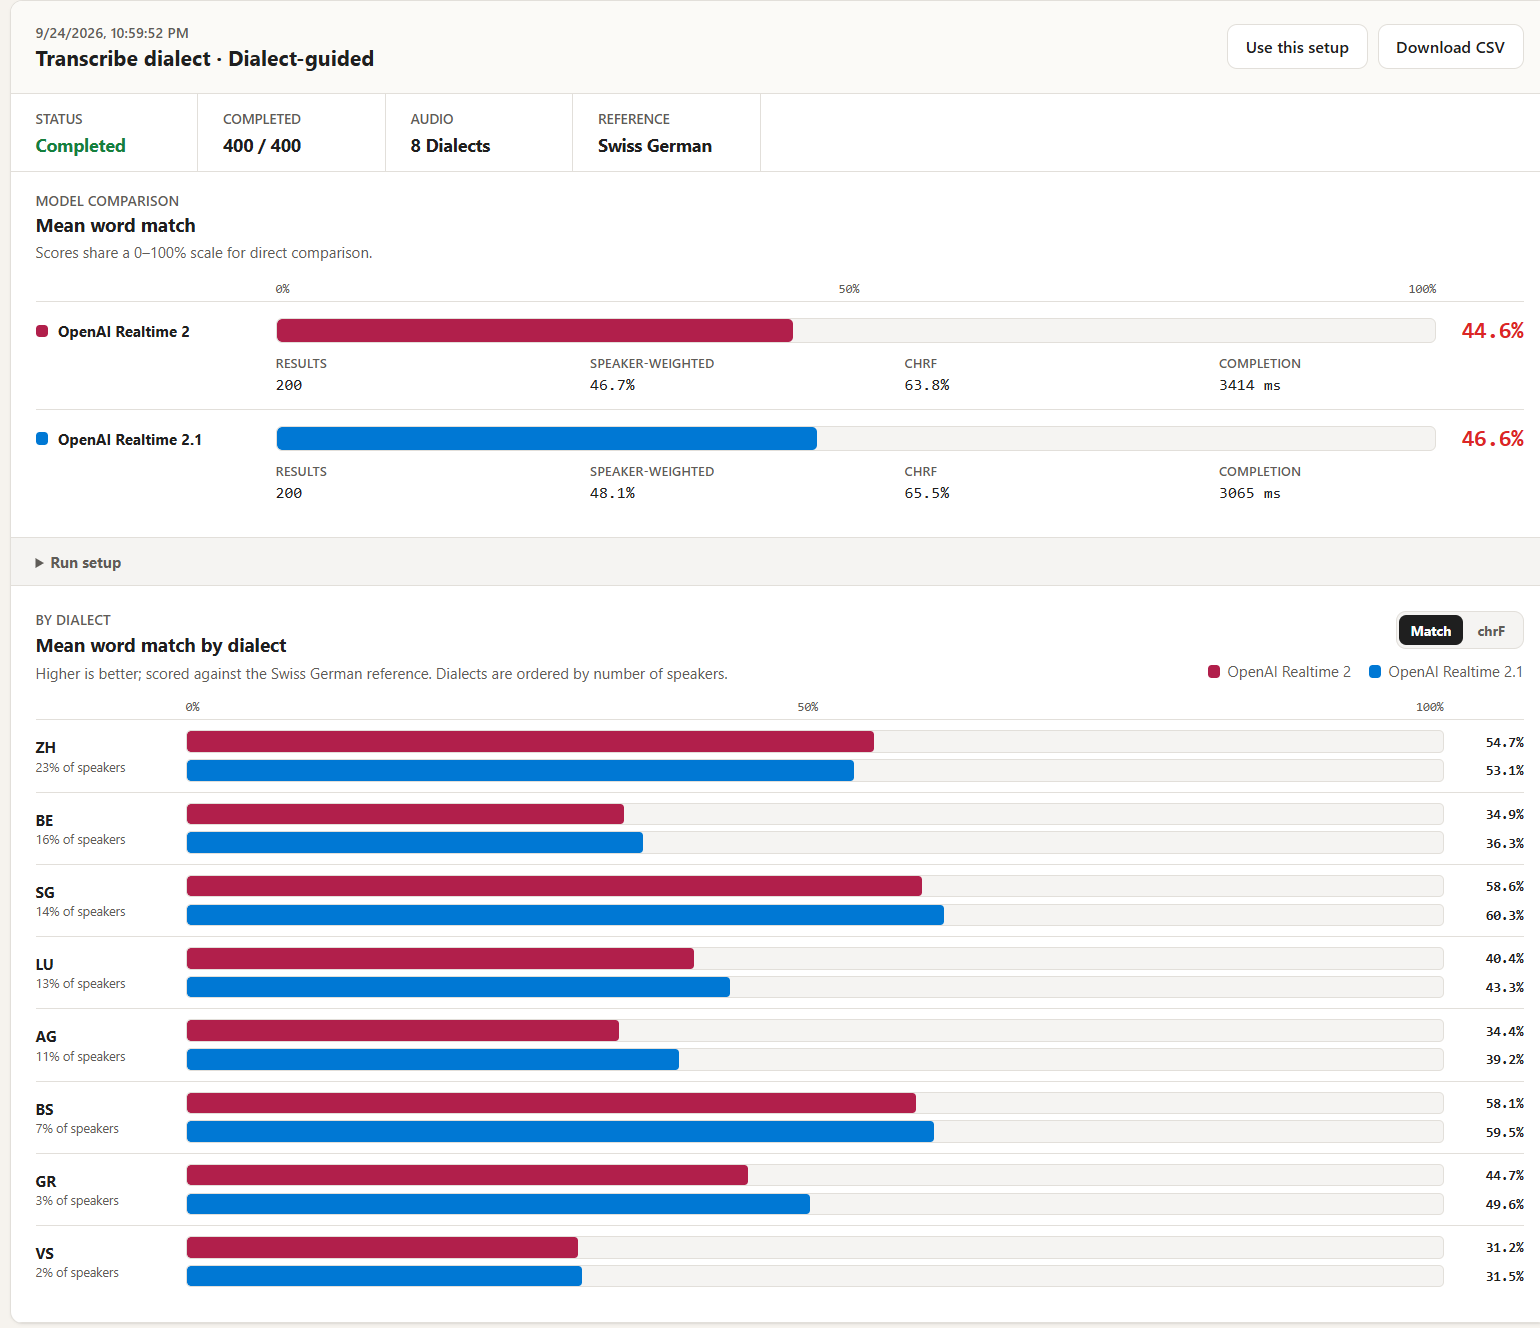
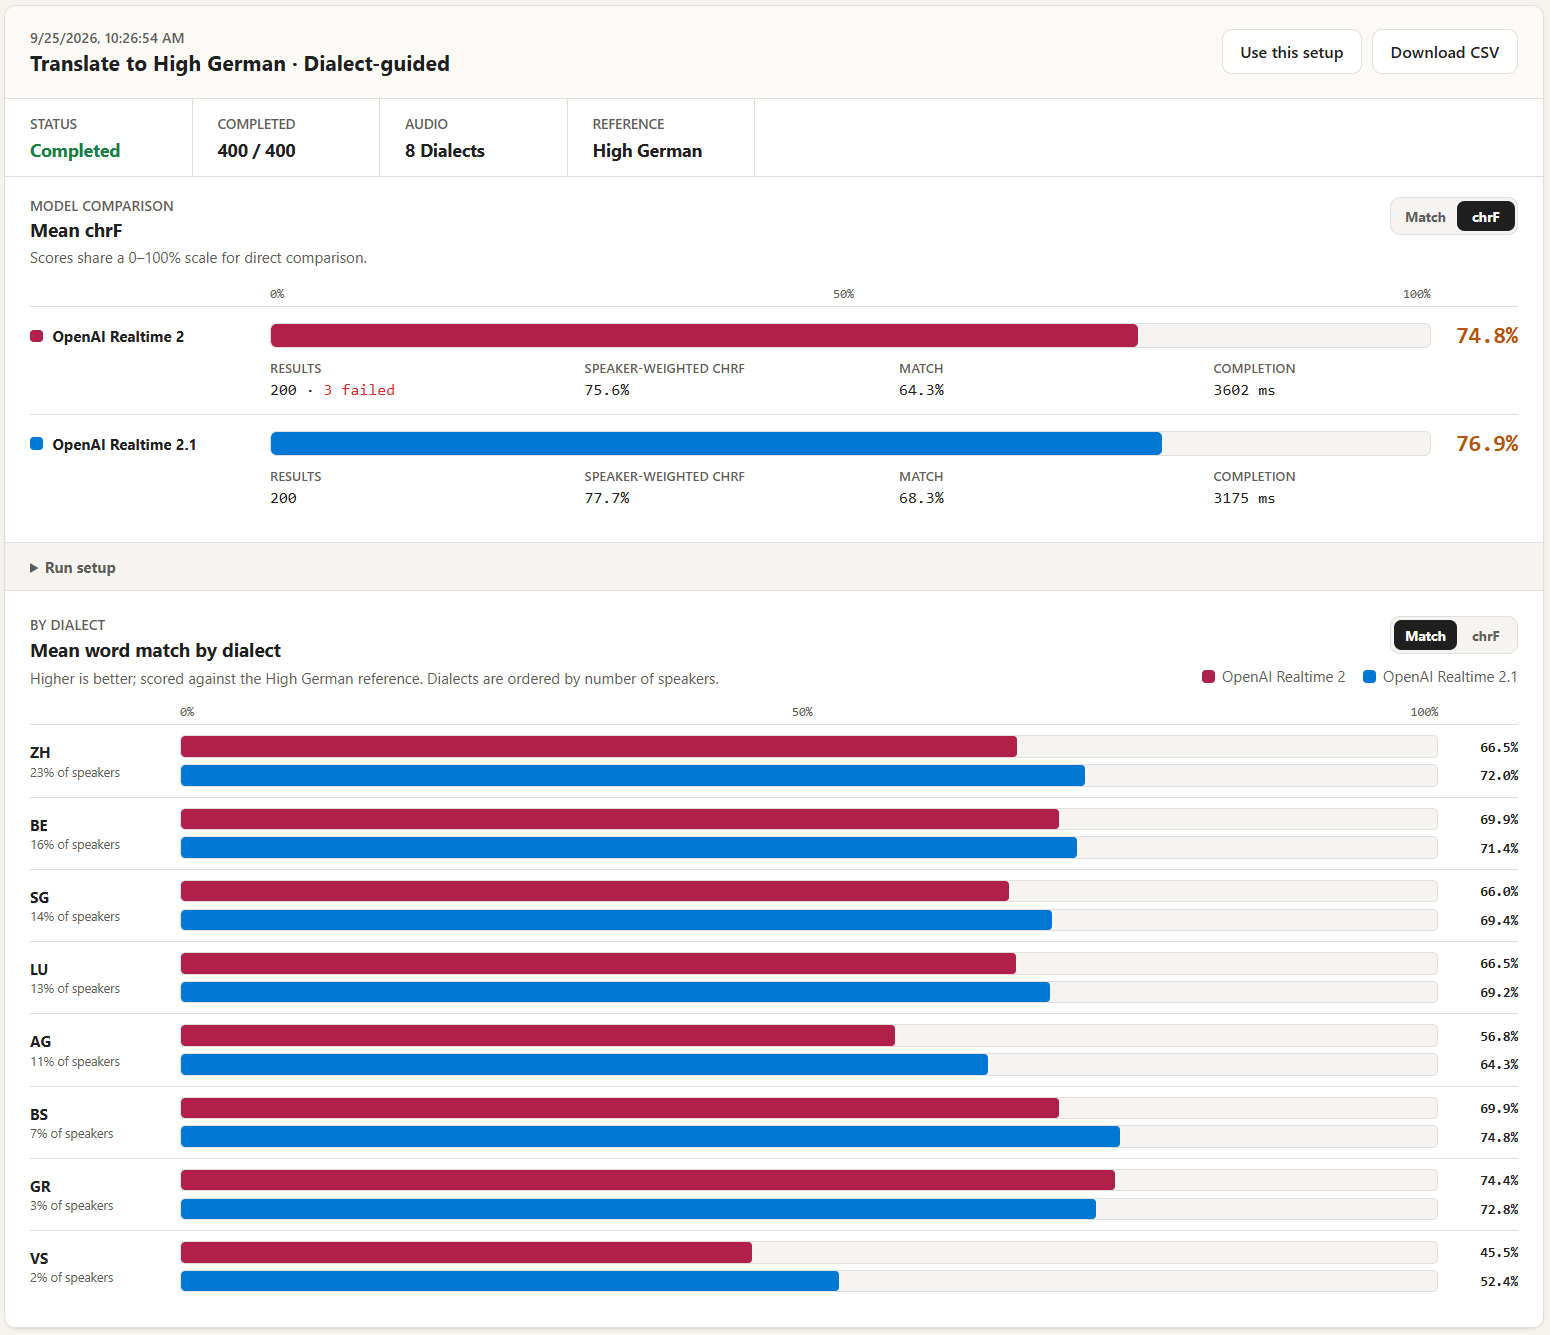
updates

diff --git a/frontend/minimal-app.js b/frontend/minimal-app.js
@@ -32,6 +32,7 @@ const state = {
   search: '',
   selectedMetrics: ['validation', 'match', 'chrf'],
   chartMetric: 'match',
+  summaryMetric: 'match',
   sampleSize: 16,
   sampleRound: 0,
   itemLimit: utterancePageSize,
@@ -727,30 +728,38 @@ function weightedModelScore(run, modelId, property) {
 }
 
 function modelScorecards(run) {
+  const metric = state.summaryMetric === 'chrf' ? 'chrf' : 'match'
+  const otherMetric = metric === 'match' ? 'chrf' : 'match'
+  const title = metric === 'match' ? 'Mean word match' : 'Mean chrF'
+  const spokenMetric = metric === 'match' ? 'mean word match' : 'mean chrF'
   const cards = run.model_ids.map((modelId, index) => {
     const results = (run.results ?? []).filter((result) => result.model_id === modelId)
     const failed = results.filter((result) => result.status === 'failed').length
-    const match = modelScore(run, modelId, 'word_match_rate')
-    const weighted = weightedModelScore(run, modelId, 'word_match_rate')
-    const chrf = modelScore(run, modelId, 'chrf')
+    const score = modelScore(run, modelId, metricProperties[metric])
+    const weighted = weightedModelScore(run, modelId, metricProperties[metric])
+    const otherScore = modelScore(run, modelId, metricProperties[otherMetric])
     const completion = modelScore(run, modelId, 'latency_ms')
-    const width = match === null ? 0 : Math.max(0, Math.min(100, match * 100))
+    const width = score === null ? 0 : Math.max(0, Math.min(100, score * 100))
     return `<article class="scorecard">
       <div class="scorecard-main">
         <strong class="scorecard-name"><i class="score-swatch series-${index % 4}"></i>${escapeHtml(modelLabel(modelId))}</strong>
-        <span class="score-track ${match === null ? 'pending' : ''}" role="img" aria-label="${escapeHtml(`${modelLabel(modelId)}: ${match === null ? 'no word match score yet' : `${rate(match)} mean word match`}`)}"><i class="score-fill series-${index % 4}" style="width:${width}%"></i></span>
-        <strong class="score-value tone-${scoreTone(match)}">${rate(match)}</strong>
+        <span class="score-track ${score === null ? 'pending' : ''}" role="img" aria-label="${escapeHtml(`${modelLabel(modelId)}: ${score === null ? `no ${spokenMetric} score yet` : `${rate(score)} ${spokenMetric}`}`)}"><i class="score-fill series-${index % 4}" style="width:${width}%"></i></span>
+        <strong class="score-value tone-${scoreTone(score)}">${rate(score)}</strong>
       </div>
       <dl>
         <div><dt>Results</dt><dd>${results.length}${failed ? ` · <span class="text-danger">${failed} failed</span>` : ''}</dd></div>
-        <div><dt title="Mean of per-dialect match weighted by each dialect region's share of Swiss German speakers">Speaker-weighted</dt><dd>${rate(weighted)}</dd></div>
-        <div><dt>chrF</dt><dd>${rate(chrf)}</dd></div>
+        <div><dt title="Mean of per-dialect ${escapeHtml(metricDefinitions[metric].label)} weighted by each dialect region's share of Swiss German speakers">Speaker-weighted ${escapeHtml(metricDefinitions[metric].label)}</dt><dd>${rate(weighted)}</dd></div>
+        <div><dt>${escapeHtml(metricDefinitions[otherMetric].label)}</dt><dd>${rate(otherScore)}</dd></div>
         <div><dt>Completion</dt><dd>${latency(completion)}</dd></div>
       </dl>
     </article>`
   }).join('')
   return `<section class="scorecards" aria-label="Model comparison">
-    <div class="scorecards-heading"><span class="eyebrow">${run.model_ids.length > 1 ? 'Model comparison' : 'Model results'}</span><h3>Mean word match</h3><p>Scores share a 0–100% scale for direct comparison.</p></div>
+    <div class="scorecards-heading"><div><span class="eyebrow">${run.model_ids.length > 1 ? 'Model comparison' : 'Model results'}</span><h3>${title}</h3><p>Scores share a 0–100% scale for direct comparison.</p></div>
+      <div class="chart-metric-switch" role="group" aria-label="Model comparison metric">
+        ${['match', 'chrf'].map((key) => `<button type="button" data-summary-metric="${key}" aria-pressed="${metric === key}" class="${metric === key ? 'active' : ''}">${escapeHtml(metricDefinitions[key].label)}</button>`).join('')}
+      </div>
+    </div>
     <div class="score-axis" aria-hidden="true"><span>0%</span><span>50%</span><span>100%</span></div>
     ${cards}
   </section>`
@@ -1430,7 +1439,7 @@ async function toggleResultAudio(button) {
 }
 
 app.addEventListener('click', (event) => {
-  const button = event.target.closest('[data-action], [data-run-id], [data-metric-info], [data-chart-metric], [data-view], [data-task-mode], [data-dialect-chip], [data-benchmark-dialect], [data-sample-preset]')
+  const button = event.target.closest('[data-action], [data-run-id], [data-metric-info], [data-chart-metric], [data-summary-metric], [data-view], [data-task-mode], [data-dialect-chip], [data-benchmark-dialect], [data-sample-preset]')
   if (!button || button.disabled) return
   if (button.dataset.view) setView(button.dataset.view)
   if (button.dataset.runId) void openRun(button.dataset.runId)
@@ -1446,6 +1455,10 @@ app.addEventListener('click', (event) => {
   }
   if (button.dataset.chartMetric) {
     state.chartMetric = button.dataset.chartMetric
+    render()
+  }
+  if (button.dataset.summaryMetric) {
+    state.summaryMetric = button.dataset.summaryMetric
     render()
   }
   if (button.dataset.metricInfo) {

diff --git a/frontend/minimal.css b/frontend/minimal.css
@@ -1218,6 +1218,13 @@ textarea:focus {
   border-bottom: 1px solid var(--cp-border);
 }
 
+.scorecards-heading {
+  display: flex;
+  align-items: flex-start;
+  justify-content: space-between;
+  gap: 16px;
+}
+
 .scorecards-heading h3 {
   margin: 3px 0 4px;
   font-size: 15px;
@@ -2230,6 +2237,16 @@ details.result-error > span {
 
   .chart-heading-actions {
     justify-items: start;
+  }
+
+  .scorecards-heading {
+    flex-direction: column;
+    gap: 8px;
+    margin-bottom: 12px;
+  }
+
+  .scorecards-heading p {
+    margin-bottom: 0;
   }
 
   .scorecard-main {

diff --git a/frontend/index.html b/frontend/index.html
@@ -15,11 +15,11 @@
         document.documentElement.setAttribute("data-theme", theme);
       })();
     </script>
-    <link rel="stylesheet" href="/minimal.css?v=13" />
+    <link rel="stylesheet" href="/minimal.css?v=14" />
     <title>Swiss German Speech Lab</title>
   </head>
   <body>
     <main id="app" aria-live="polite">Loading Swiss German transcription benchmark...</main>
-    <script src="/minimal-app.js?v=21" defer></script>
+    <script src="/minimal-app.js?v=22" defer></script>
   </body>
 </html>

diff --git a/README.md b/README.md
@@ -253,7 +253,7 @@ The UI also exposes **Word Match**, calculated as $\max(0, 1 - \text{WER})$. It 
 
 **chrF** is the character n-gram F-score (orders 1–6, $\beta = 2$) over normalized text with spaces removed. It gives partial credit for inflection and spelling variants ("spezielle" vs. "besondere" still shares characters with its context), so it is a better fit for translations than WER. It is computed on the fly from stored transcripts, so it is also available for older runs.
 
-On the **Results** tab, models are compared with horizontal bars on the same 0–100% mean word match scale. Each model also shows its result count, a **speaker-weighted** match (per-dialect means weighted by each dialect region's share of Swiss German speakers; see below), chrF, and completion time. In the results table, words in the model output that are not in the reference are highlighted, and reference words the model missed are shown struck through. Filter the table by dialect or model, and sort by lowest or highest match to find failure patterns quickly. Two-pass runs also show the intermediate dialect transcript.
+On the **Results** tab, models are compared with horizontal bars on the same 0–100% scale. Switch the upper comparison independently between **Match** and **chrF**. Each model also shows its result count, a **speaker-weighted** value for the selected metric (per-dialect means weighted by each dialect region's share of Swiss German speakers; see below), the other metric, and completion time. In the results table, words in the model output that are not in the reference are highlighted, and reference words the model missed are shown struck through. Filter the table by dialect or model, and sort by lowest or highest match to find failure patterns quickly. Two-pass runs also show the intermediate dialect transcript.
 
 Use **Compare all dialects** in the model panel to select both Realtime deployments and queue a balanced 32-test run over the default 16-utterance corpus with the current task and strategy. While results arrive, the Results tab groups horizontal model bars by dialect, ordered by number of speakers. All bars in a chart share the same scale; missing scores are shown as pending rather than zero. When several numeric result fields are selected, switch the chart among Match, chrF, WER, CER, First token, and Completion. Hover or focus a bar for the exact model, dialect, value, and scored utterance count.
 
